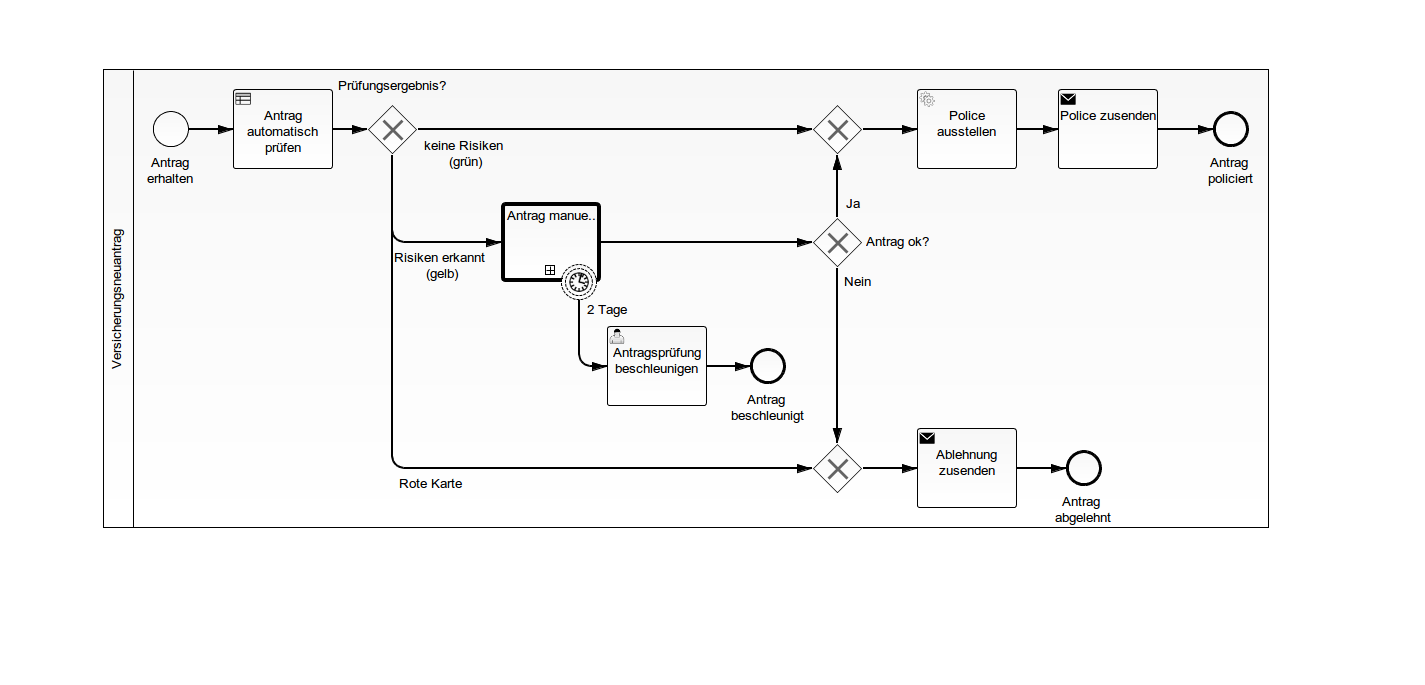
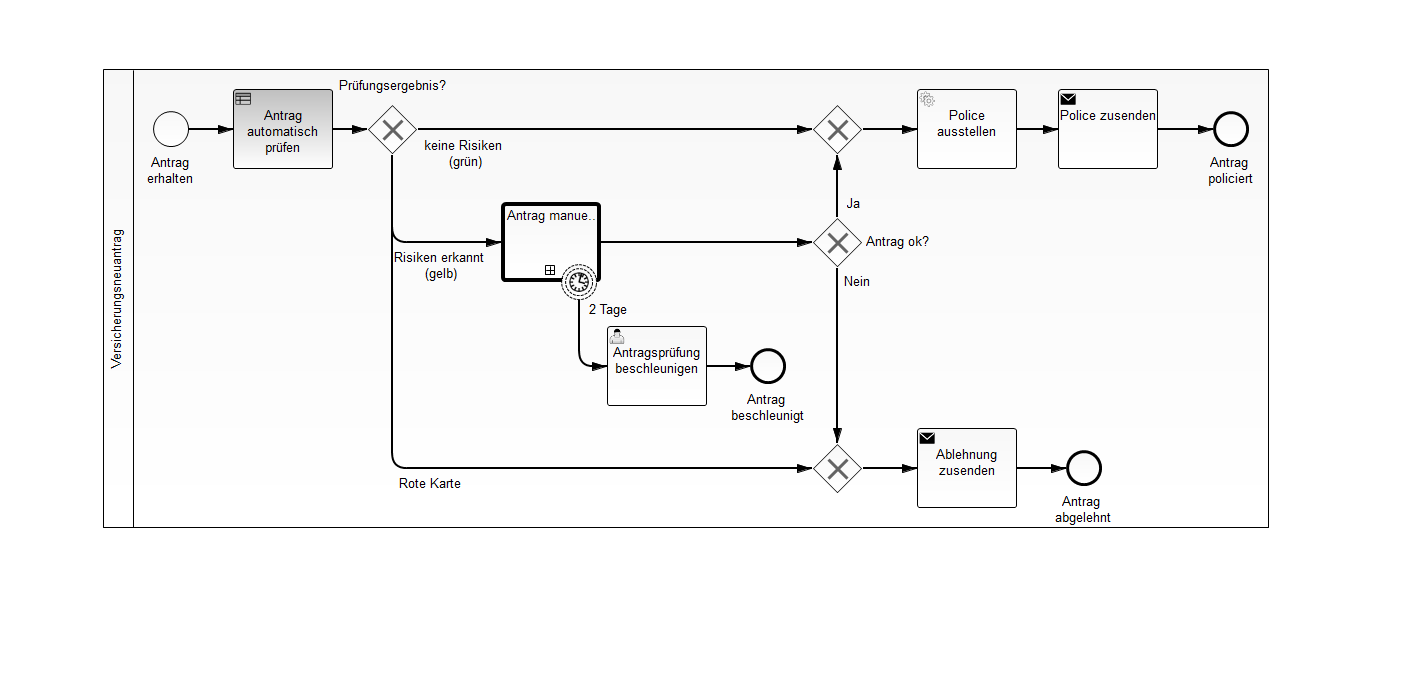
changed to use Camunda DMN instead of Drools

diff --git a/showcases/de/versicherungsneuantrag/process-application/src/test/java/com/camunda/demo/versicherungsneuantrag/NeuantragProcessTest.java b/showcases/de/versicherungsneuantrag/process-application/src/test/java/com/camunda/demo/versicherungsneuantrag/NeuantragProcessTest.java
@@ -50,13 +50,13 @@ public class NeuantragProcessTest {
    * Just tests if the process definition is deployable.
    */
   @Test
-  @Deployment(resources = {PROCESS_BPMN_FILE, "Neuantragspruefung.cmmn", "DokumentAnfordern.bpmn"})
+  @Deployment(resources = {PROCESS_BPMN_FILE, "Neuantragspruefung.cmmn", "DokumentAnfordern.bpmn", "Risikopruefung.dmn"})
   public void testParsingAndDeployment() {
     // nothing is done here, as we just want to check for exceptions during deployment
   }
 
   @Test
-  @Deployment(resources = {PROCESS_BPMN_FILE, "Neuantragspruefung.cmmn", "DokumentAnfordern.bpmn"})
+  @Deployment(resources = {PROCESS_BPMN_FILE, "Neuantragspruefung.cmmn", "DokumentAnfordern.bpmn", "Risikopruefung.dmn"})
   public void testDunkelverarbeitungPoliciert() {
     Neuantrag neuantrag = DemoData.createNeuantrag(40, true, "VW", "Golf V");
     
@@ -72,9 +72,9 @@ public class NeuantragProcessTest {
   }
 
   @Test
-  @Deployment(resources = {PROCESS_BPMN_FILE, "Neuantragspruefung.cmmn", "DokumentAnfordern.bpmn"})
+  @Deployment(resources = {PROCESS_BPMN_FILE, "Neuantragspruefung.cmmn", "DokumentAnfordern.bpmn", "Risikopruefung.dmn"})
   public void testDunkelverarbeitungAbgelehnt() {
-    Neuantrag neuantrag = DemoData.createNeuantrag(20, true, "Porsche", "911");
+    Neuantrag neuantrag = DemoData.createNeuantrag(20, true, "Porsche", "x911");
     
     VariableMap variables = Variables.createVariables();
     variables.putValue(
@@ -83,15 +83,16 @@ public class NeuantragProcessTest {
         
     ProcessInstance processInstance = runtimeService().startProcessInstanceByKey(PROCESS_DEFINITION_KEY, variables);
     
-    assertThat(processInstance).isEnded()
-      .hasPassedInOrder("BusinessRuleTaskAntragAutomatischPruefen", "SendTaskAblehnungZusenden", "EndEventAntragAbgelehnt");    
+    assertThat(processInstance)
+      .hasPassedInOrder("BusinessRuleTaskAntragAutomatischPruefen", "SendTaskAblehnungZusenden", "EndEventAntragAbgelehnt")
+      .isEnded();    
   }
 
   
   @Test
-  @Deployment(resources = {PROCESS_BPMN_FILE, "Neuantragspruefung.cmmn", "DokumentAnfordern.bpmn"})
+  @Deployment(resources = {PROCESS_BPMN_FILE, "Neuantragspruefung.cmmn", "DokumentAnfordern.bpmn", "Risikopruefung.dmn"})
   public void testHell() {
-    Neuantrag neuantrag = DemoData.createNeuantrag(30, false, "BMW", "525i");
+    Neuantrag neuantrag = DemoData.createNeuantrag(30, false, "BMW", "525"); //I
     
     VariableMap variables = Variables.createVariables();
     variables.putValue(
@@ -106,7 +107,7 @@ public class NeuantragProcessTest {
   }  
   
   @Test
-  @Deployment(resources = {PROCESS_BPMN_FILE, "Neuantragspruefung.cmmn", "DokumentAnfordern.bpmn"})
+  @Deployment(resources = {PROCESS_BPMN_FILE, "Neuantragspruefung.cmmn", "DokumentAnfordern.bpmn", "Risikopruefung.dmn"})
   public void testCase() {
     Neuantrag neuantrag = DemoData.createNeuantrag(30, false, "BMW", "525i");
     

diff --git a/showcases/de/versicherungsneuantrag/process-application/src/main/java/com/camunda/demo/versicherungsneuantrag/adapter/LogDmnResult.java b/showcases/de/versicherungsneuantrag/process-application/src/main/java/com/camunda/demo/versicherungsneuantrag/adapter/LogDmnResult.java
@@ -1,0 +1,47 @@
+package com.camunda.demo.versicherungsneuantrag.adapter;
+
+import java.util.ArrayList;
+import java.util.List;
+
+import org.camunda.bpm.dmn.engine.DmnDecisionOutput;
+import org.camunda.bpm.dmn.engine.DmnDecisionResult;
+import org.camunda.bpm.engine.delegate.DelegateExecution;
+import org.camunda.bpm.engine.delegate.ExecutionListener;
+
+public class LogDmnResult implements ExecutionListener {
+
+  @Override
+  public void notify(DelegateExecution execution) throws Exception {
+    List<String> risks = new ArrayList<String>();
+    List<String> statusRedRisks = new ArrayList<String>();
+    
+    //DmnDecisionOutput vs DmnDecisionResult
+    Object result = execution.getVariable("risikopruefung");
+    if (result instanceof DmnDecisionOutput) {
+      parseOutput(risks, statusRedRisks, (DmnDecisionOutput)result);      
+    } else if (result instanceof DmnDecisionResult) {
+      DmnDecisionResult risikopruefung = (DmnDecisionResult) execution.getVariable("risikopruefung");    
+      
+      for (DmnDecisionOutput dmnDecisionOutput : risikopruefung) { 
+        parseOutput(risks, statusRedRisks, dmnDecisionOutput);
+      }
+    }
+    else if (result==null){
+      // no risks :-)
+    }
+    else {
+      throw new RuntimeException("Unknwon result type " + result.getClass().getName() + " (" + result + ")");
+    }
+
+    execution.setVariable("risks", risks);
+    execution.setVariable("statusRedRisks", statusRedRisks);
+  }
+
+  protected void parseOutput(List<String> risks, List<String> statusRedRisks, DmnDecisionOutput dmnDecisionOutput) {
+    risks.add((String)dmnDecisionOutput.getValue("risiko"));
+    if (dmnDecisionOutput.getValue("ablehnung")!=null && (Boolean)dmnDecisionOutput.getValue("ablehnung")) {
+      statusRedRisks.add((String)dmnDecisionOutput.getValue("risiko"));        
+    }
+  }
+
+}
